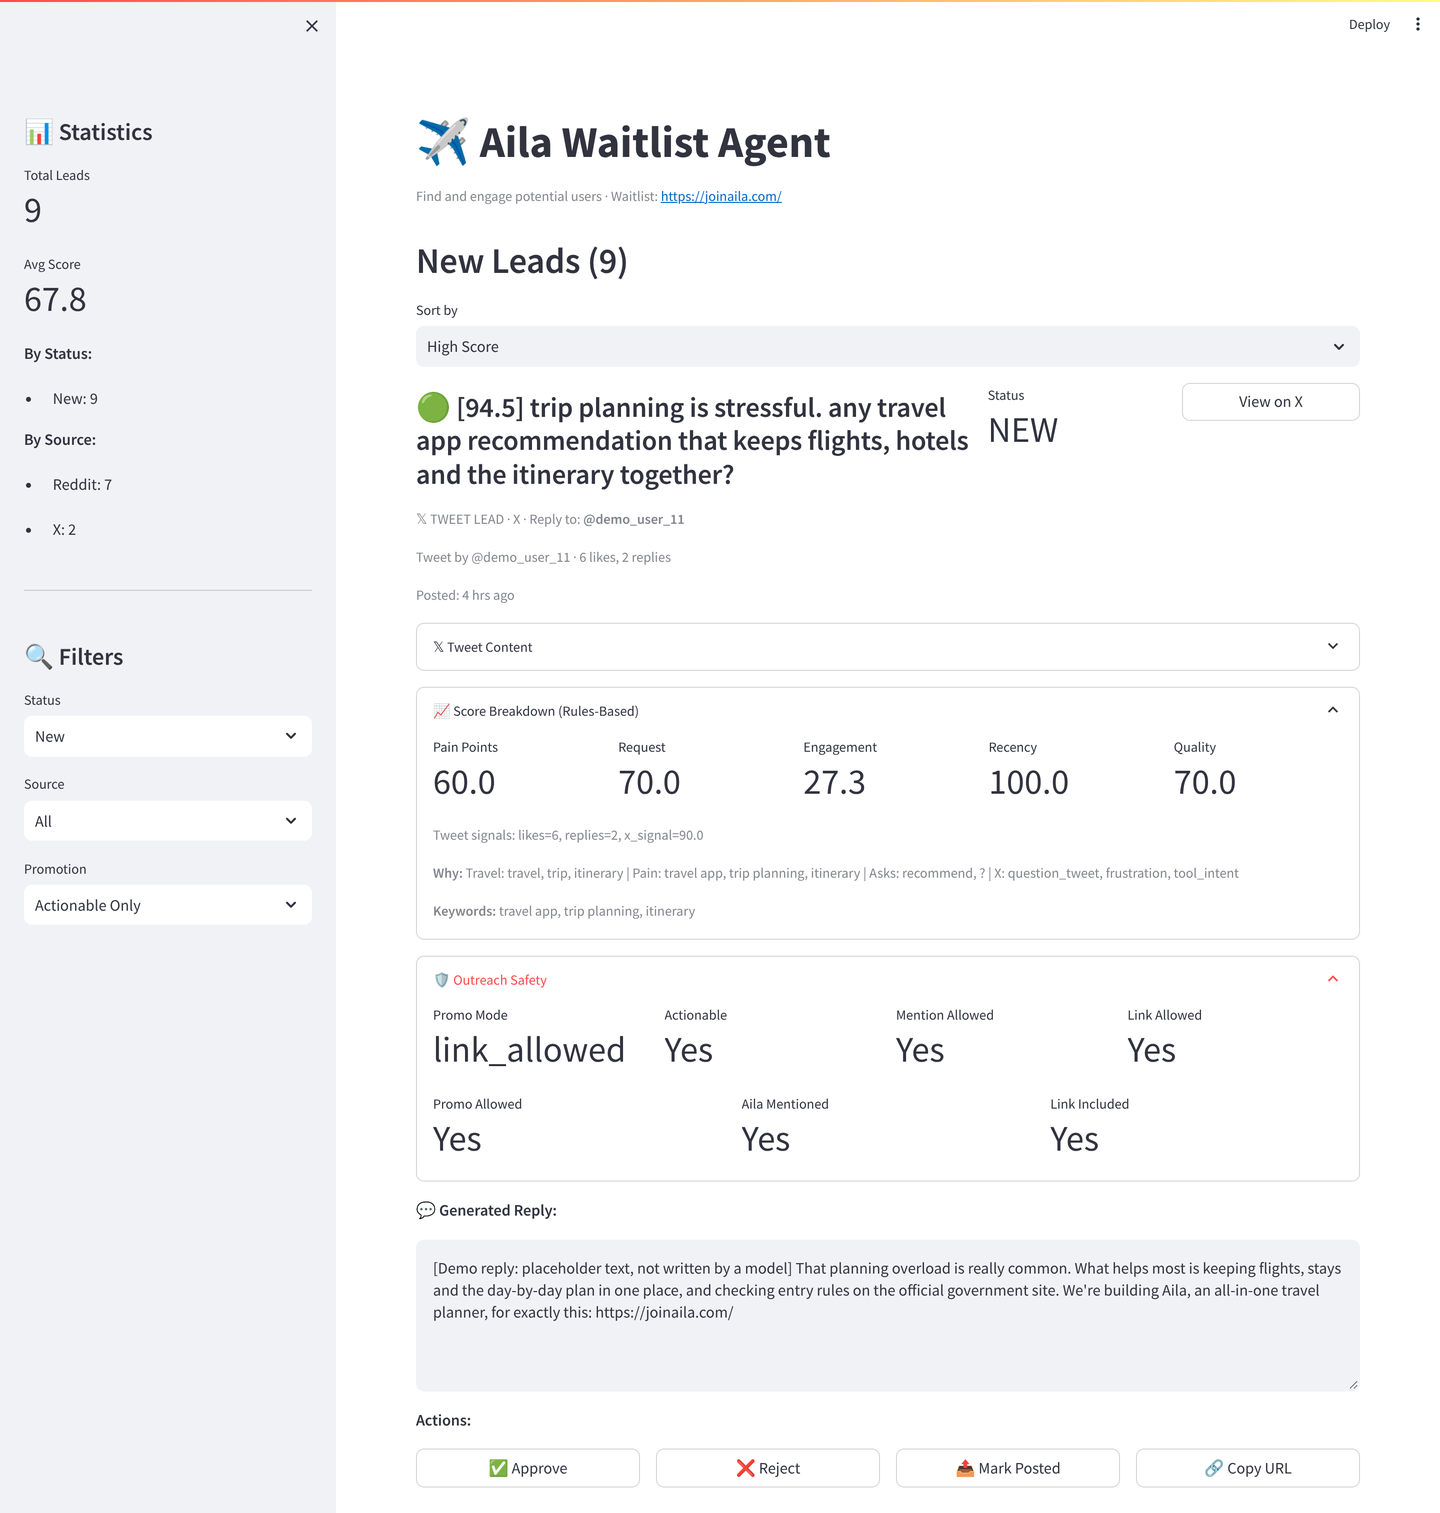
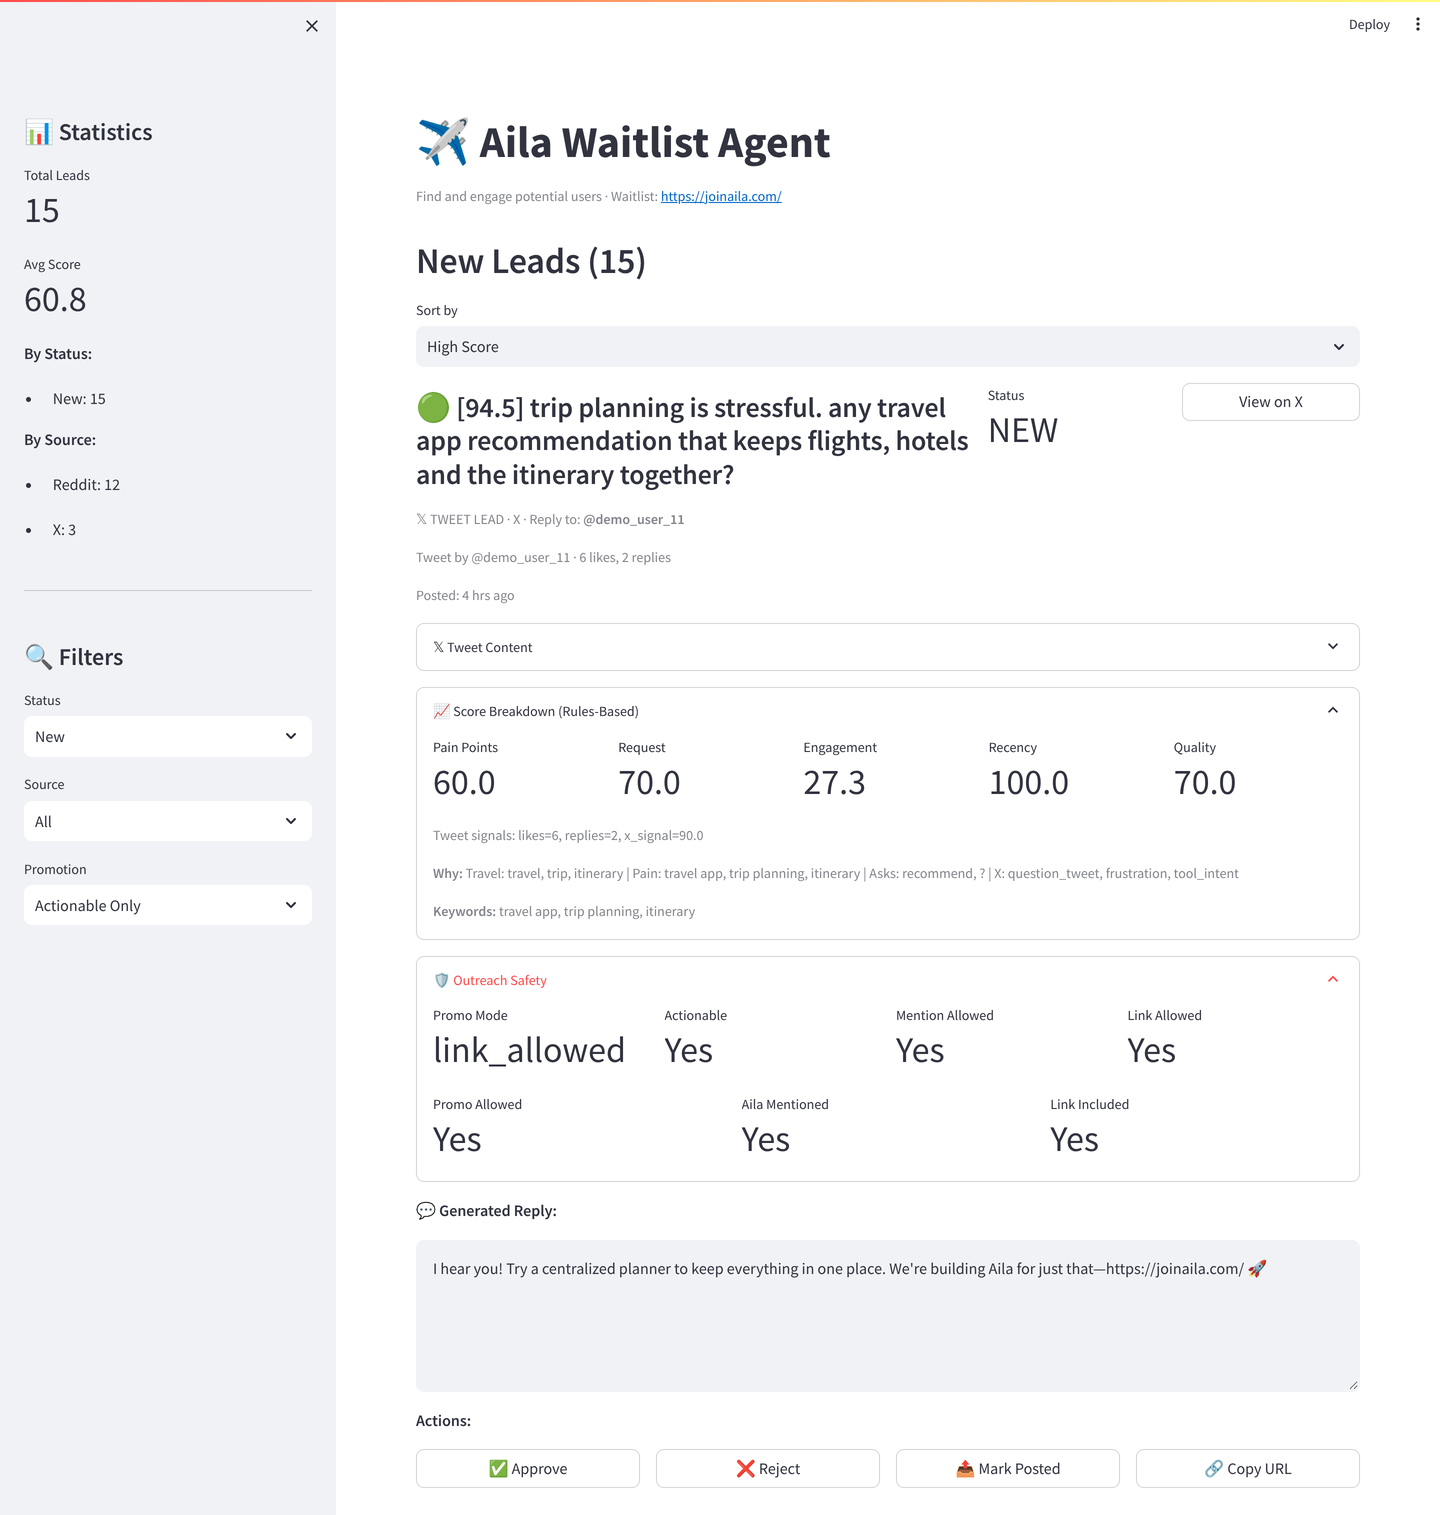
Demo: replies recorded from qwen2.5:7b, with reviewer verdicts
The demo now replays 15 replies recorded once from the local model and not
edited; the cleanup step still runs on each, and the page shows what it removed.
Each draft carries a verdict written by hand after reading it: 10 approve,
4 fix before posting, 1 check the facts first. New dashboard screenshot.

diff --git a/demo/export_site.py b/demo/export_site.py
@@ -29,7 +29,8 @@ from src.llm.source_grounder import OFFICIAL_DOMAIN_GROUPS, _is_allowed_domain  
 
 REPO_URL = "https://github.com/Unmesh30/aila-waitlist-growth-agent"
 PLACEHOLDER = "[Demo reply: placeholder text, not written by a model]"
-URL_RE = re.compile(r"https?://\S+")
+URL_RE = re.compile(r"https?://[^\s)\]]+")
+VERDICTS = {"approve": "Approve", "fix": "Fix before posting", "check": "Check the facts first"}
 COMPONENTS = [
     ("pain_point_score", "Pain points", "pain_points"),
     ("request_score", "Requests", "request"),
@@ -64,6 +65,11 @@ def load_leads(db_path: Path) -> list[dict]:
 
 def load_report(path: Path) -> dict:
     return json.loads(path.read_text(encoding="utf-8")) if path.exists() else {}
+
+
+def load_review_notes() -> dict:
+    path = FIXTURES / "review_notes.json"
+    return json.loads(path.read_text(encoding="utf-8")).get("notes", {}) if path.exists() else {}
 
 
 def grounding_summary(leads: list[dict]) -> tuple[list[str], list[tuple[str, str]]]:
@@ -190,7 +196,7 @@ def render_breakdown(lead: dict) -> str:
     )
 
 
-def render_card(lead: dict, index: int, recorded: dict) -> str:
+def render_card(lead: dict, index: int, recorded: dict, notes: dict) -> str:
     source = lead.get("source", "reddit")
     lead_type = lead.get("lead_type", "post")
     if source == "x":
@@ -218,7 +224,7 @@ def render_card(lead: dict, index: int, recorded: dict) -> str:
         links = ", ".join(
             f'<a href="{esc(s["url"])}">{esc(s.get("domain") or urlparse(s["url"]).netloc)}</a>' for s in lead["sources"]
         )
-        sources = f'<p class="note">Facts pulled only from: {links}</p>'
+        sources = f'<p class="note">Sources given to the model: {links}</p>'
 
     final = lead.get("reply") or ""
     entry = recorded.get(lead.get("url") or "")
@@ -234,6 +240,14 @@ def render_card(lead: dict, index: int, recorded: dict) -> str:
         label = "Drafted reply · placeholder from the stand-in model"
         guard = ""
         reply_html = render_text(final).replace(esc(PLACEHOLDER), f'<span class="placeholder">{esc(PLACEHOLDER)}</span>')
+
+    review = ""
+    note = notes.get(lead.get("url") or "")
+    if note and note.get("verdict") in VERDICTS:
+        review = (
+            f'<p class="review review-{note["verdict"]}"><strong>Reviewer: {VERDICTS[note["verdict"]]}.</strong> '
+            f'{esc(note.get("note", ""))}</p>'
+        )
 
     score = lead["lead_score"]
     band = "high" if score >= 70 else "mid" if score >= 50 else "low"
@@ -257,6 +271,7 @@ def render_card(lead: dict, index: int, recorded: dict) -> str:
         {guard}
         {sources}
       </div>
+      {review}
       <div class="actions">
         <button type="button" class="btn btn-approve" data-action="approved" aria-pressed="false">✓ Approve</button>
         <button type="button" class="btn btn-reject" data-action="rejected" aria-pressed="false">✕ Reject</button>
@@ -326,6 +341,10 @@ summary { cursor: pointer; color: var(--accent); font-weight: 600; font-size: 15
 .reply-text p + p { margin-top: 8px; }
 .reply-label { font-size: 12px; font-weight: 700; letter-spacing: .04em; text-transform: uppercase; color: var(--muted); margin-bottom: 4px !important; }
 .placeholder { color: var(--muted); font-style: italic; }
+.review { margin: 10px 0 0; font-size: 14px; border-radius: 8px; padding: 8px 12px; border: 1px solid var(--line); }
+.review-approve { background: var(--ok-soft); border-color: #1a7f3755; }
+.review-fix { background: var(--no-soft); border-color: #cf222e55; }
+.review-check { background: var(--warn-soft); border-color: #d4a72c55; }
 .actions { display:flex; gap: 10px; align-items:center; margin-top: 14px; flex-wrap: wrap; }
 .btn { font: inherit; font-size: 15px; font-weight: 600; border-radius: 8px; padding: 7px 14px; cursor: pointer;
        border: 1px solid var(--line); background: var(--card); color: var(--ink); }
@@ -388,7 +407,16 @@ def build_page(leads: list[dict], report: dict, recordings: dict) -> str:
     groups = said_no_groups(report)
     rejected_text = " and ".join(f"<strong>{esc(d)}</strong> ({esc(r)})" for d, r in rejected)
     used_text = " and ".join(f"<strong>{esc(d)}</strong>" for d in used)
-    cards = "".join(render_card(lead, i + 1, recorded) for i, lead in enumerate(leads))
+    notes = load_review_notes()
+    cards = "".join(render_card(lead, i + 1, recorded, notes) for i, lead in enumerate(leads))
+    verdicts = [notes[lead["url"]]["verdict"] for lead in leads if lead.get("url") in notes]
+    review_summary = ""
+    if verdicts:
+        review_summary = (
+            f'<p class="note">Reviewer verdicts, written by hand after reading every draft: '
+            f'{verdicts.count("approve")} approve, {verdicts.count("fix")} fix before posting, '
+            f'{verdicts.count("check")} check the facts first. That review is the step that keeps the agent safe to use.</p>'
+        )
 
     if has_recordings:
         model_text = " and ".join(esc(m) for m in models) or "a local model"
@@ -443,7 +471,7 @@ def build_page(leads: list[dict], report: dict, recordings: dict) -> str:
 
 <h2>Guardrails on the replies</h2>
 <ul class="guards">
-  <li><strong>Official sources only</strong> for facts: replies use {used_text}. The search also returned {rejected_text}, and the allowlist rejected them.</li>
+  <li><strong>Official sources only:</strong> the only pages given to the model were {used_text}. The search also returned {rejected_text}, and the allowlist rejected them.</li>
   <li><strong>No link where it isn’t allowed:</strong> {link_removed} replies are in communities that allow a mention of Aila but not a link, so they carry no link; {link_kept} replies on X include it.</li>
   <li><strong>Nothing is posted automatically.</strong> Every reply waits for a person to approve or reject it.</li>
 </ul>
@@ -452,6 +480,7 @@ def build_page(leads: list[dict], report: dict, recordings: dict) -> str:
   <h2>Review queue, highest score first</h2>
   <span class="counts" id="counts" aria-live="polite"></span>
 </div>
+{review_summary}
 {cards}
 
 <h2>How it works</h2>

diff --git a/tests/test_export_site.py b/tests/test_export_site.py
@@ -23,6 +23,12 @@ def test_export_site_from_demo_run(demo_run, tmp_path):
         queued = con.execute("SELECT COUNT(*) FROM leads").fetchone()[0]
     assert page.count('<article class="card"') == queued
     assert "made-up sample posts" in page
+    # Every queued draft carries the reviewer's verdict, and the summary counts them.
+    assert page.count('<p class="review review-') == queued
+    assert "10 approve, 4 fix before posting, 1 check the facts first" in page
+    # Replies come from the recorded model output, not the placeholder.
+    assert "placeholder from the stand-in model" not in page
+    assert "written by qwen2.5:7b running locally" in page
     # What the run turned down is listed with the reason: community rules, age and comments that aren't leads.
     assert "Communities that don’t allow promotion (3)" in page
     assert "Too old for the daily queue (2)" in page
@@ -31,7 +37,8 @@ def test_export_site_from_demo_run(demo_run, tmp_path):
         assert f"({community} · score" in page
     # The look-alike domain is shown as rejected; replies cite only official sources.
     assert "visa-help-gov.uk</strong> (look-alike" in page
-    # Mention-only cards never carry the waitlist link.
+    # Mention-only cards never carry the waitlist link in the reply itself.
     for card in re.findall(r'<article class="card".*?</article>', page, flags=re.S):
         if "Mention only" in card:
-            assert "joinaila.com" not in card
+            reply = re.search(r'<div class="reply-text">(.*?)</div>', card, flags=re.S).group(1)
+            assert "joinaila.com" not in reply

diff --git a/tests/test_demo_pipeline.py b/tests/test_demo_pipeline.py
@@ -2,6 +2,9 @@
 
 import json
 import sqlite3
+from pathlib import Path
+
+ROOT = Path(__file__).resolve().parent.parent
 
 
 def test_demo_run_end_to_end(demo_run):
@@ -17,8 +20,11 @@ def test_demo_run_end_to_end(demo_run):
     # Both sources and comment-based leads come through.
     assert {lead["source"] for lead in leads} == {"reddit", "x"}
     assert any(lead["lead_type"] == "comment" for lead in leads)
+    recorded = json.loads((ROOT / "demo" / "fixtures" / "recorded_replies.json").read_text(encoding="utf-8"))["replies"]
     for lead in leads:
-        assert lead["reply"].startswith("[Demo reply")
+        # Each reply is the recorded model output after the guardrails, never the placeholder.
+        assert lead["url"] in recorded
+        assert lead["reply"] and not lead["reply"].startswith("[Demo reply")
         if lead["subreddit_policy_mode"] == "mention_only":
             assert "joinaila.com" not in lead["reply"]
         for source in json.loads(lead["reply_sources"] or "[]"):

diff --git a/README.md b/README.md
@@ -6,7 +6,7 @@
 
 I built this during my internship at Lunar Guide (Feb–Jun 2026) to grow the waitlist for Aila, its AI travel planner. – Unmesh Achar
 
-**Interactive demo:** https://unmesh30.github.io/aila-waitlist-growth-agent/ shows the agent's real code run on made-up sample posts: ranked leads, score breakdowns, what it turned down and why, and the drafted replies with approve and reject buttons.
+**Interactive demo:** https://unmesh30.github.io/aila-waitlist-growth-agent/ shows the agent's real code run on made-up sample posts: ranked leads, score breakdowns, what it turned down and why, and replies written by a local model (`qwen2.5:7b`, unedited), each with what the guardrails removed and a reviewer's verdict.
 
 ![Review dashboard on the demo data: leads ranked by score, the score breakdown, the outreach-safety checks and a drafted reply waiting for approval](docs/dashboard_demo.png)
 
@@ -40,15 +40,15 @@ pip install -r requirements-dev.txt
 pytest
 ```
 
-27 tests cover the scoring weights and ranking, de-duplication, the reply sanitizer, the source allowlist (including look-alike domains), the community promotion rules, parsing of X posts, the whole demo pipeline end to end, recording and replaying model replies, the dashboard (it renders the demo leads and records an approval) and the demo page. GitHub Actions runs them on Python 3.11 and 3.12 on every push.
+28 tests cover the scoring weights and ranking, de-duplication, the reply sanitizer, the source allowlist (including look-alike domains), the community promotion rules, parsing of X posts, the whole demo pipeline end to end, recording and replaying model replies, the dashboard (it renders the demo leads and records an approval) and the demo page. GitHub Actions runs them on Python 3.11 and 3.12 on every push.
 
 ## Changes since the internship (November 2026)
 
 The original code from the internship is commit [`ba1ea27`](https://github.com/Unmesh30/aila-waitlist-growth-agent/tree/ba1ea27de94bd06b0d33bc0bf237ba2d7210b104). Since then I have added:
 
 - An offline demo mode (`--demo`) on made-up sample posts, which can replay replies recorded once from the real local model (`--record-replies`).
-- 27 automated tests and a CI workflow.
-- An interactive demo page (`python3 -m demo.export_site --out site`), built from a demo run and published on GitHub Pages.
+- 28 automated tests and a CI workflow.
+- An interactive demo page (`python3 -m demo.export_site --out site`), built from a demo run and published on GitHub Pages. Its replies were recorded once from `qwen2.5:7b` and are replayed unedited; the reviewer verdicts (`demo/fixtures/review_notes.json`) were written by hand after reading every draft.
 - **Fix:** the source allowlist matched domains by suffix, so a look-alike such as `visa-help-gov.uk` passed as `gov.uk`. It now accepts only the exact domain or a real subdomain.
 - **Fix:** where a community allows a mention but not a link, removing the link left a sentence hanging on "for exactly this:". The sentence now ends cleanly.
 - **Fix:** a fresh install could not start the dashboard, because newer pyarrow releases need NumPy 2, which Streamlit 1.31 doesn't support. pyarrow is now pinned.
